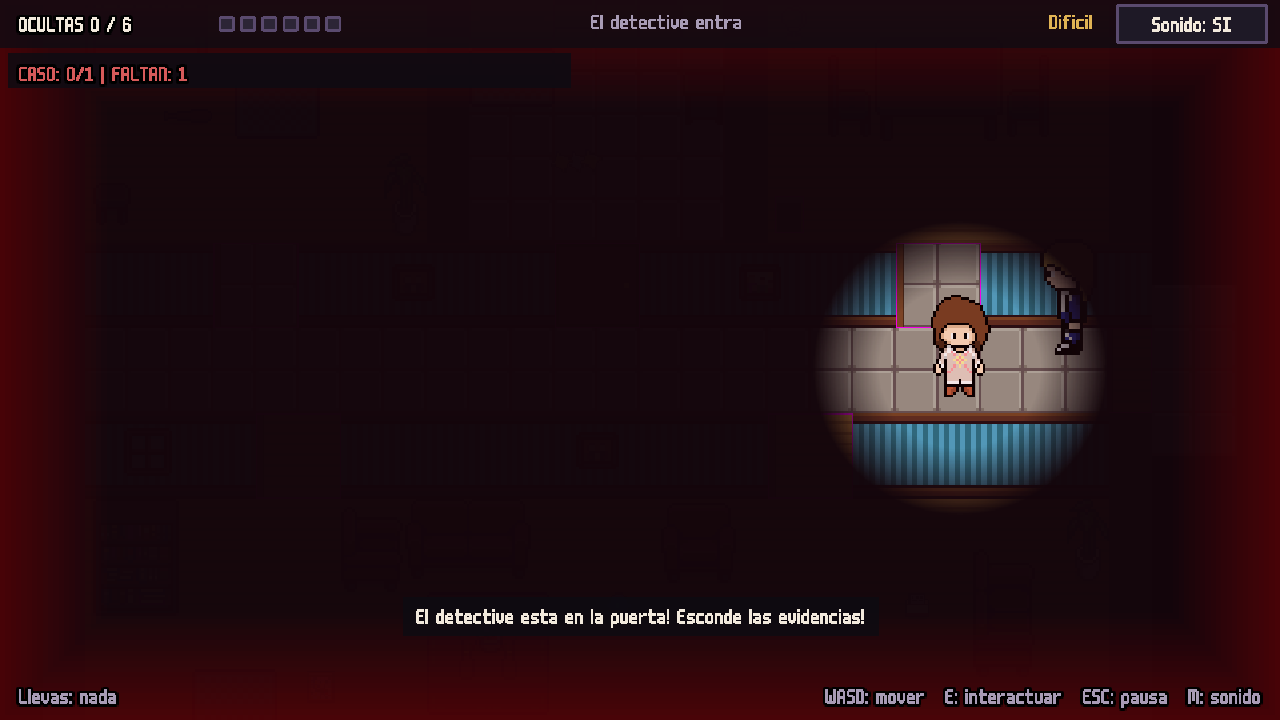
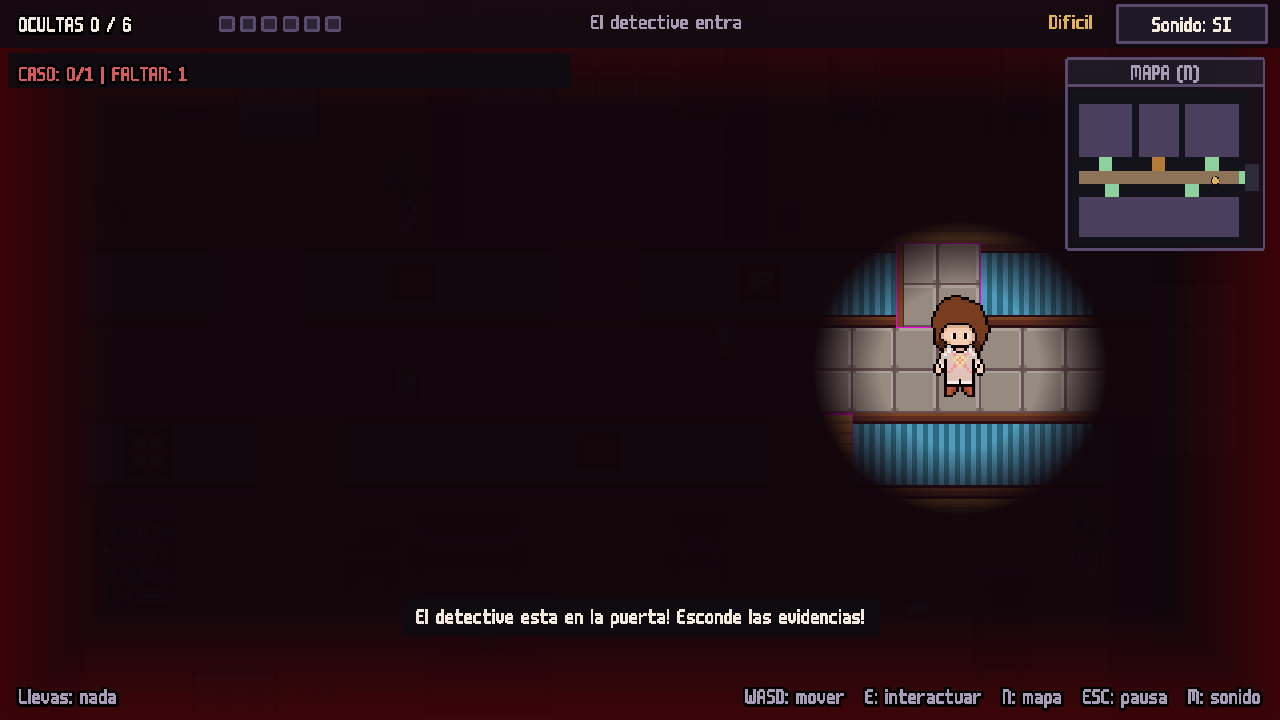
docs: document the minimap and refresh screenshots

Changed region(s): [[0.8125, 0.0611, 1.0, 0.3667], [0.5625, 0.9472, 0.8125, 1.0], [0.8125, 0.3667, 0.8438, 0.4889]]

diff --git a/README.md b/README.md
@@ -120,6 +120,7 @@ Cada prueba escondida suma **1 punto** (máximo **6**).
   El orden de los puntos se mezcla en cada partida y, tras cada una de las tres primeras rondas, **interroga a Roro**.
 - **Cuándo encuentra pruebas.** Cada escondite se registra **una sola vez**: un lugar ya revisado es seguro. Una prueba se descubre si está en el escondite que el detective registra o si está a la vista cerca de él mientras busca. Las pruebas que Roro lleva en las manos nunca se descubren.
 - **Presión del caso.** Cada prueba descubierta acerca al detective a la solución. Cuantas menos le faltan, más rápida suena la música y más intenso es el borde rojo de la pantalla.
+- **Minimapa.** En la esquina superior derecha muestra el plano del apartamento, la habitación de Roro, las puertas abiertas o cerradas y al detective **solo cuando el juego ya lo muestra** (en Normal y Difícil no revela su posición). No marca pruebas ni escondites. Se pliega con `N` o tocando su barra, y la preferencia se guarda.
 - **Distracción.** La tetera de la cocina silba tras unos segundos y atrae al detective. Al terminar de revisarla, vuelve exactamente al punto de su ruta donde lo dejó. Tiene un tiempo de espera de 30 s.
 - **Puertas.** Roro puede abrir y cerrar las puertas interiores. El detective abre las que encuentra cerradas en su camino.
 
@@ -150,6 +151,7 @@ Todas las funcionalidades de esta lista están implementadas en el código actua
 - Estados explícitos de cada prueba: *no encontrada*, *cargada*, *escondida* y *descubierta*
 - Puntuación derivada de los estados, que no puede contarse dos veces ni superar 6
 - Sistema de presión del caso según la dificultad
+- Minimapa plegable que respeta las reglas de visibilidad de cada dificultad
 
 </td>
 <td valign="top" width="50%">
@@ -264,6 +266,7 @@ Abre la dirección que muestra Vite en la terminal (por defecto, `http://localho
 | `W` `A` `S` `D` / `↑` `←` `↓` `→` | Mover a Roro |
 | `E` | Interactuar: recoger, esconder, recuperar, leer la nota, abrir/cerrar puertas, encender la tetera |
 | `Esc` | Pausar y reanudar |
+| `N` | Mostrar u ocultar el minimapa |
 | `M` | Activar o desactivar el sonido |
 | `W` / `S` o `↑` / `↓` | Navegar por los botones de los menús |
 | `Enter` / `Espacio` | Confirmar en los menús |
@@ -280,6 +283,7 @@ Aparecen automáticamente en dispositivos táctiles, o con `?touch` en la URL.
 | Cruceta `^` `v` `<` `>` (abajo a la izquierda) | Mover a Roro |
 | Botón **E** (abajo a la derecha) | Interactuar |
 | Botón **II** (arriba a la derecha) | Pausar |
+| Barra **MAPA** (arriba a la derecha) | Mostrar u ocultar el minimapa |
 | Toque en botones y en la barra de volumen | Igual que el clic del ratón |
 
 Las instrucciones también son visibles en el juego: la barra inferior de la partida y la opción **Cómo jugar** del menú principal.
@@ -316,12 +320,12 @@ Roro/
     │   ├── animationData.js    Definición de animaciones
     │   └── tilesetData.js      Regiones del tileset
     ├── scenes/                 Una escena de Phaser por pantalla del juego
-    ├── world/                  Modelo del apartamento y su renderizado
+    ├── world/                  Modelo del apartamento, su renderizado y la proyección del minimapa
     ├── physics/                Colisiones, navegación A* y detección de habitaciones
     ├── ai/                     Máquina de estados del detective
     ├── objects/                Personajes, puertas, pruebas, escondites y distracciones
     ├── managers/               Servicios: recursos, audio, guardado, idioma, pruebas, rutas, interacción, entrada
-    ├── ui/                     HUD, avisos, nota, diálogos, oscuridad, presión del caso, botones y controles táctiles
+    ├── ui/                     HUD, minimapa, avisos, nota, diálogos, oscuridad, presión del caso, botones y controles táctiles
     └── utils/                  Procesamiento de imágenes, aleatoriedad, eventos y atmósfera del caso
 ```
 
@@ -435,13 +439,14 @@ Las transiciones permitidas están en `DETECTIVE_TRANSITIONS` (`src/ai/Detective
 | IA avanzada (FSM + A* + recálculo de rutas) | ✅ |
 | Generación procedural (orden y ubicación aleatoria de rutas y pruebas) | ✅ |
 | Shader / efectos visuales (oscuridad, visibilidad circular, filtro rojo de presión) | ✅ (efectos de cámara y superposición, no *shaders* GLSL propios) |
+| Minimapa (plano en tiempo real, sin revelar al detective fuera de vista) | ✅ |
 | Sistema de inventario (un objeto cargado a la vez) | ✅ (básico) |
 
 ### Pruebas automáticas
 
 ```bash
 npm test
-# 185 passed, 0 failed · idiomas OK · audio OK
+# 199 passed, 0 failed · idiomas OK · audio OK
 ```
 
 ### Documentación de diseño
